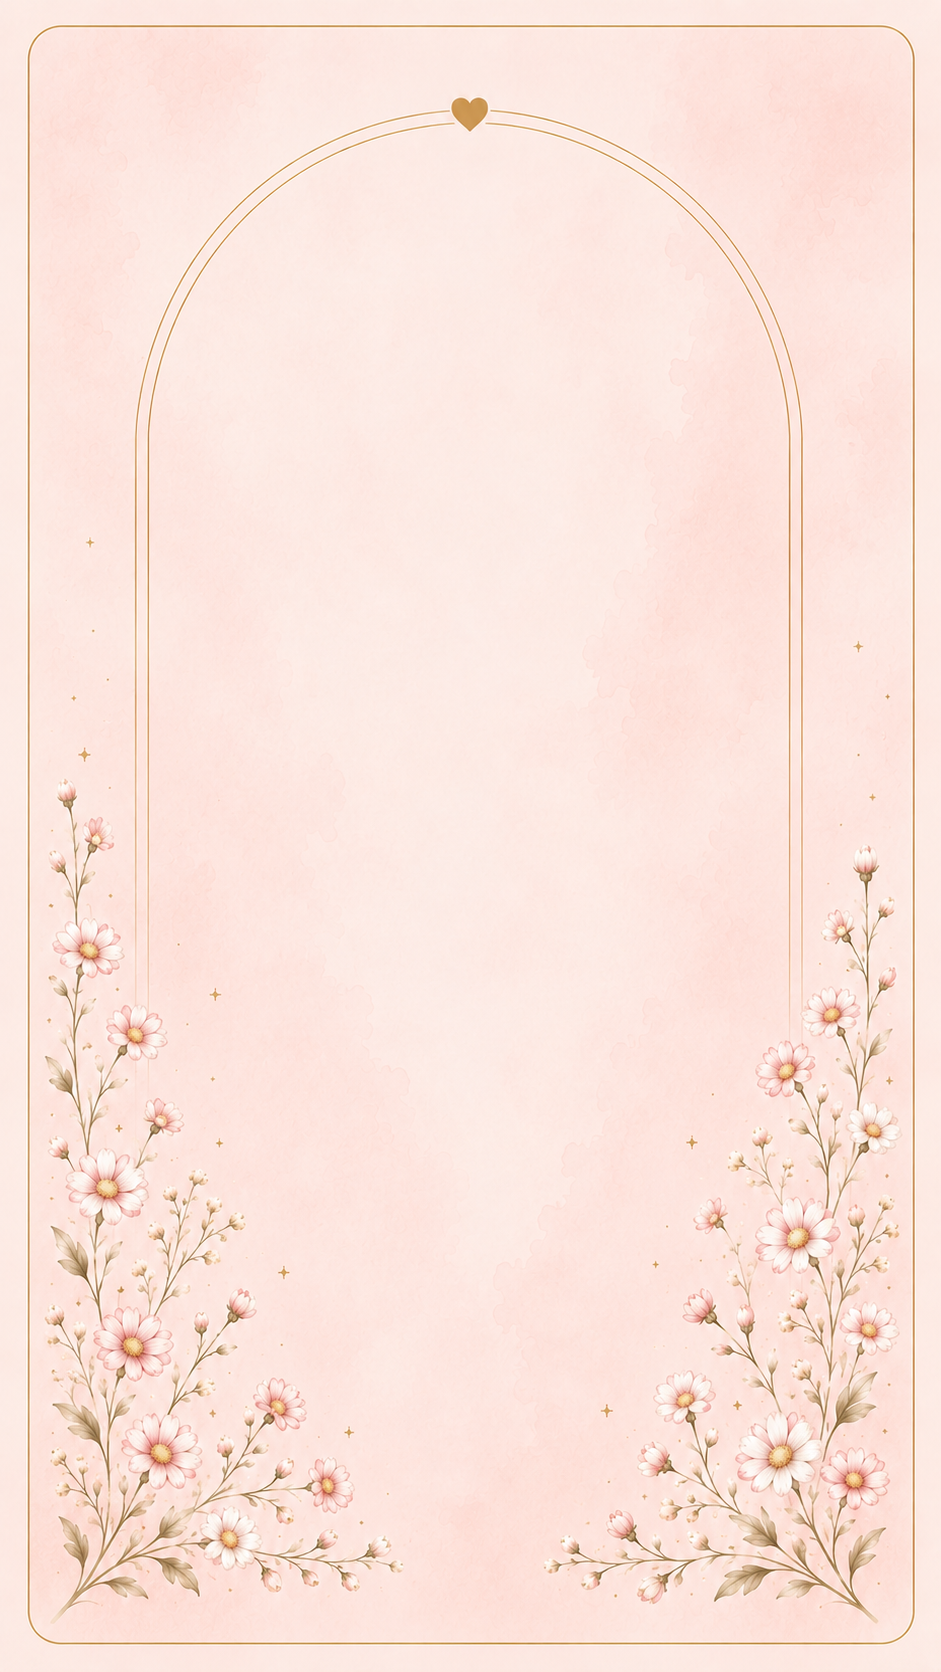
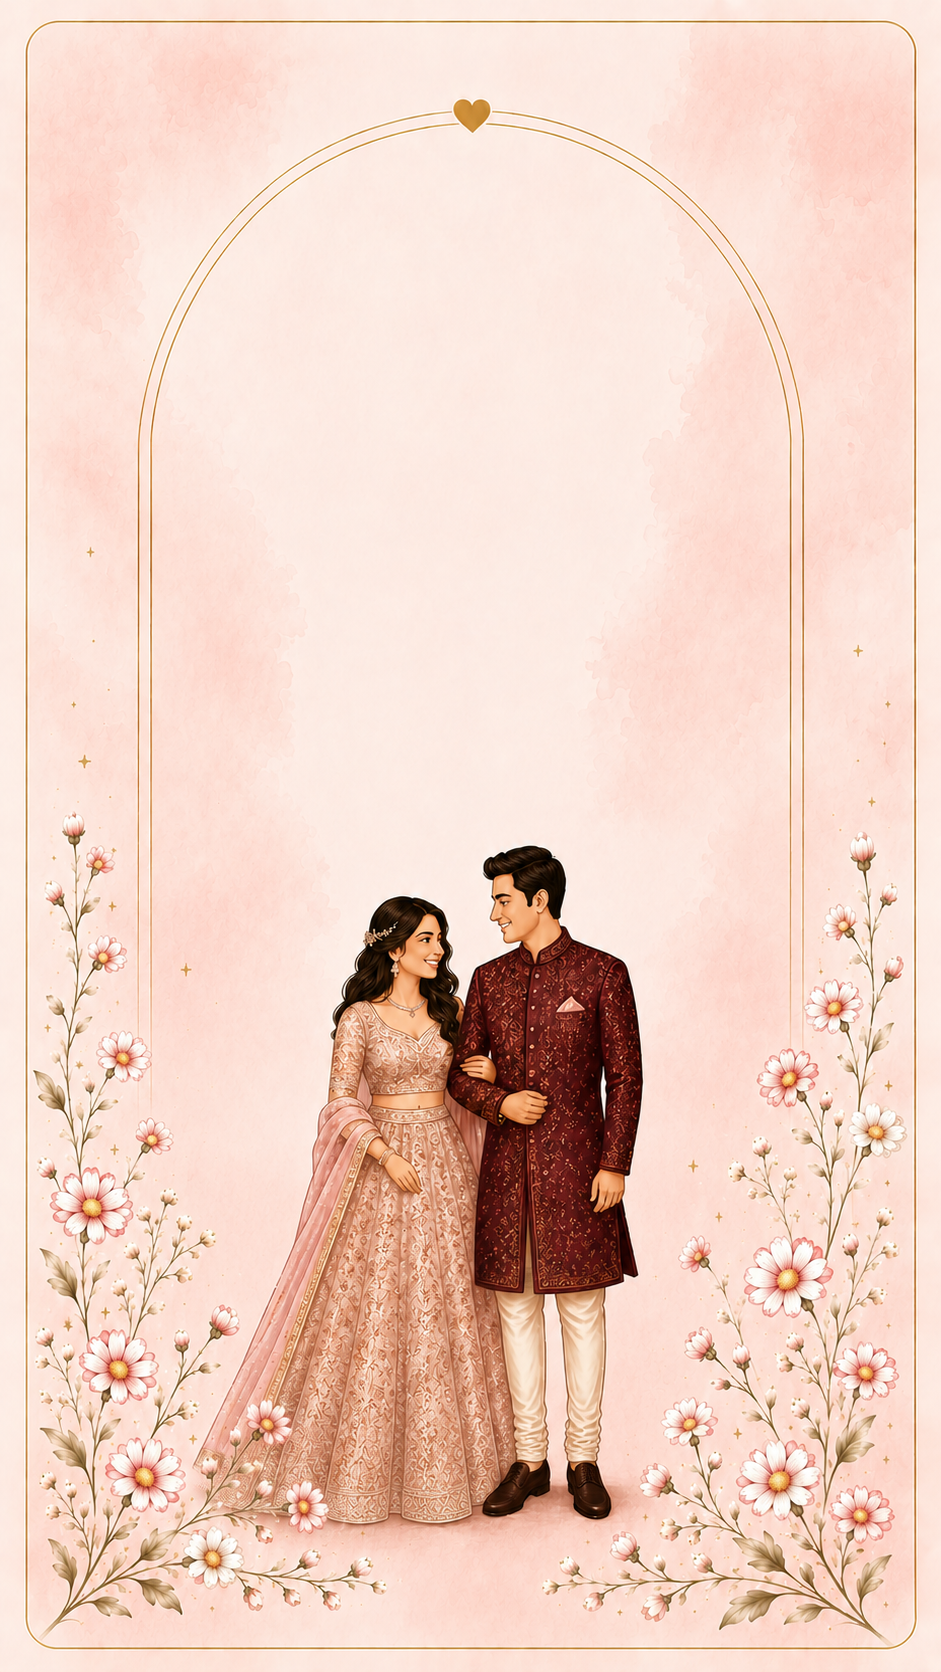
scaling of invite across devices v4

diff --git a/src/styles.css b/src/styles.css
@@ -43,14 +43,14 @@ html{
   gap: 18px;
 }
 .couple-wrap{
-  order: 1;
+  order: 2;
   display: flex;
   justify-content: center;
   align-items: flex-start;
   margin-top: 8px;
 }
 .invite-copy{  
-  order: 2;
+  order: 1;
   margin-top: auto;
   padding-bottom: 12px;
 }